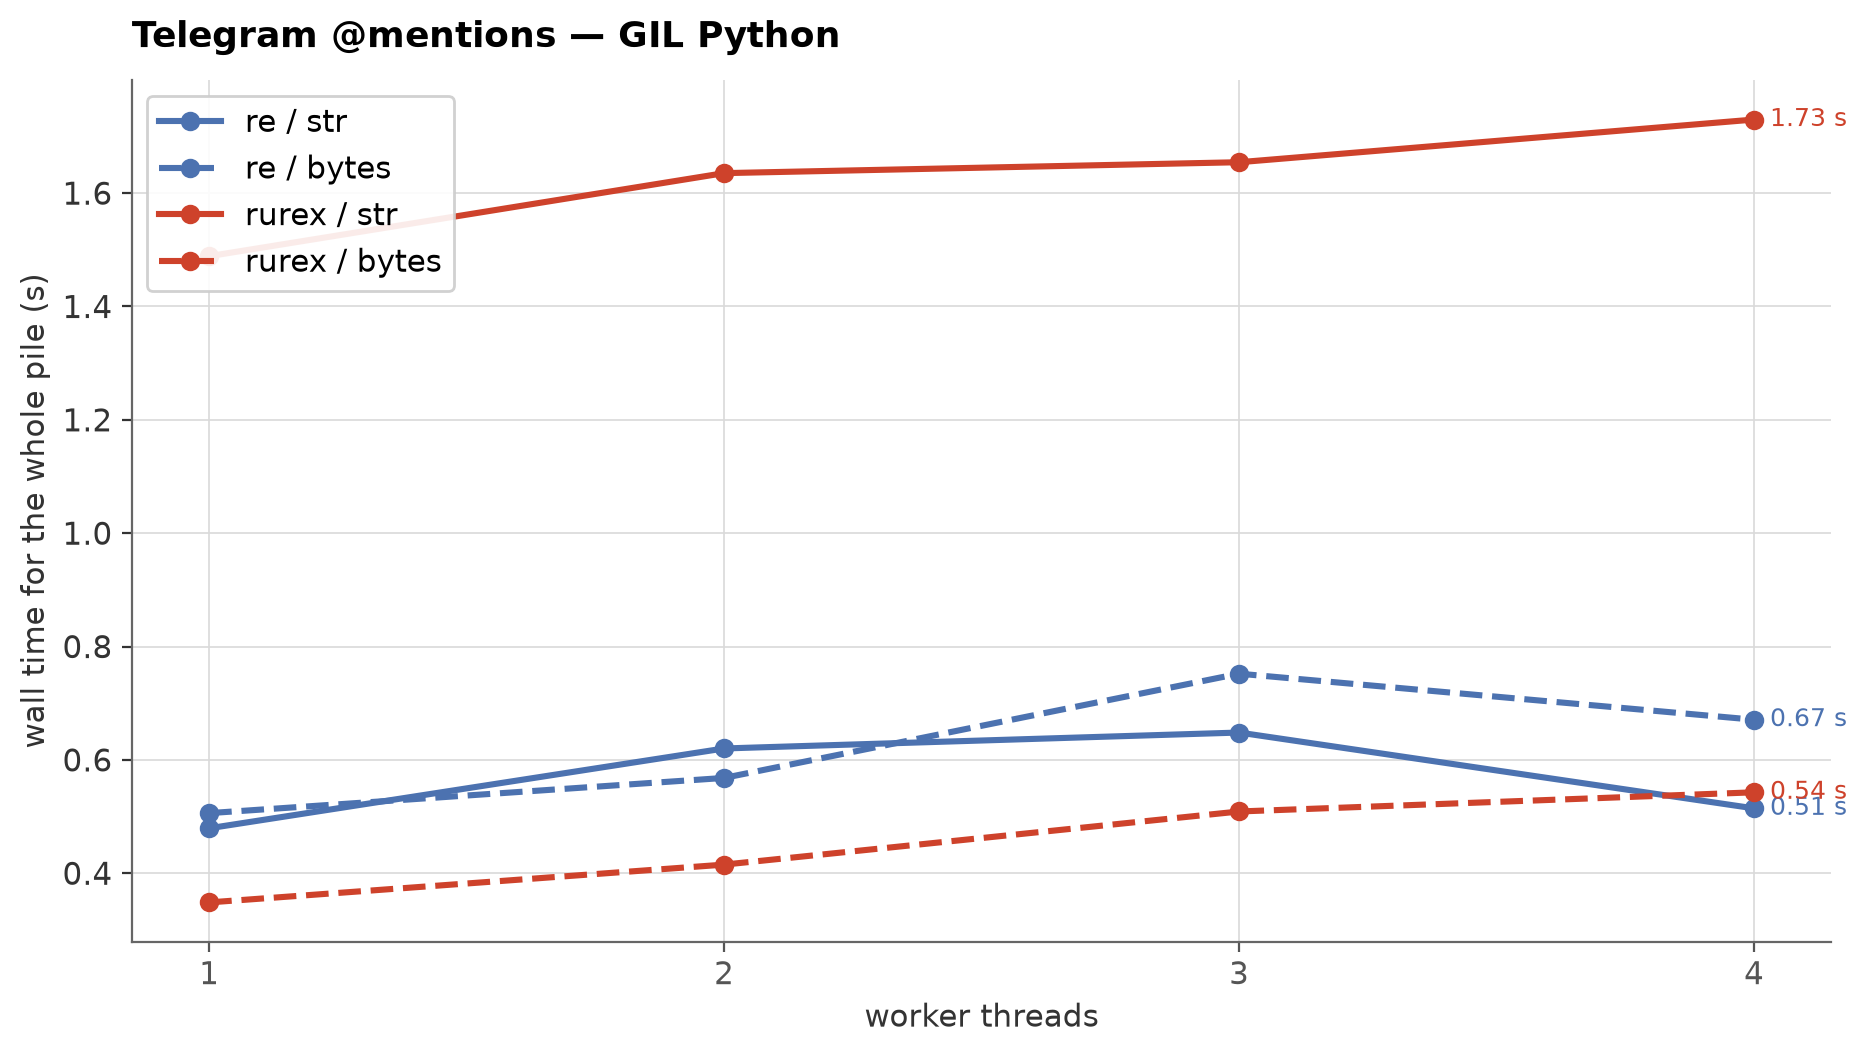
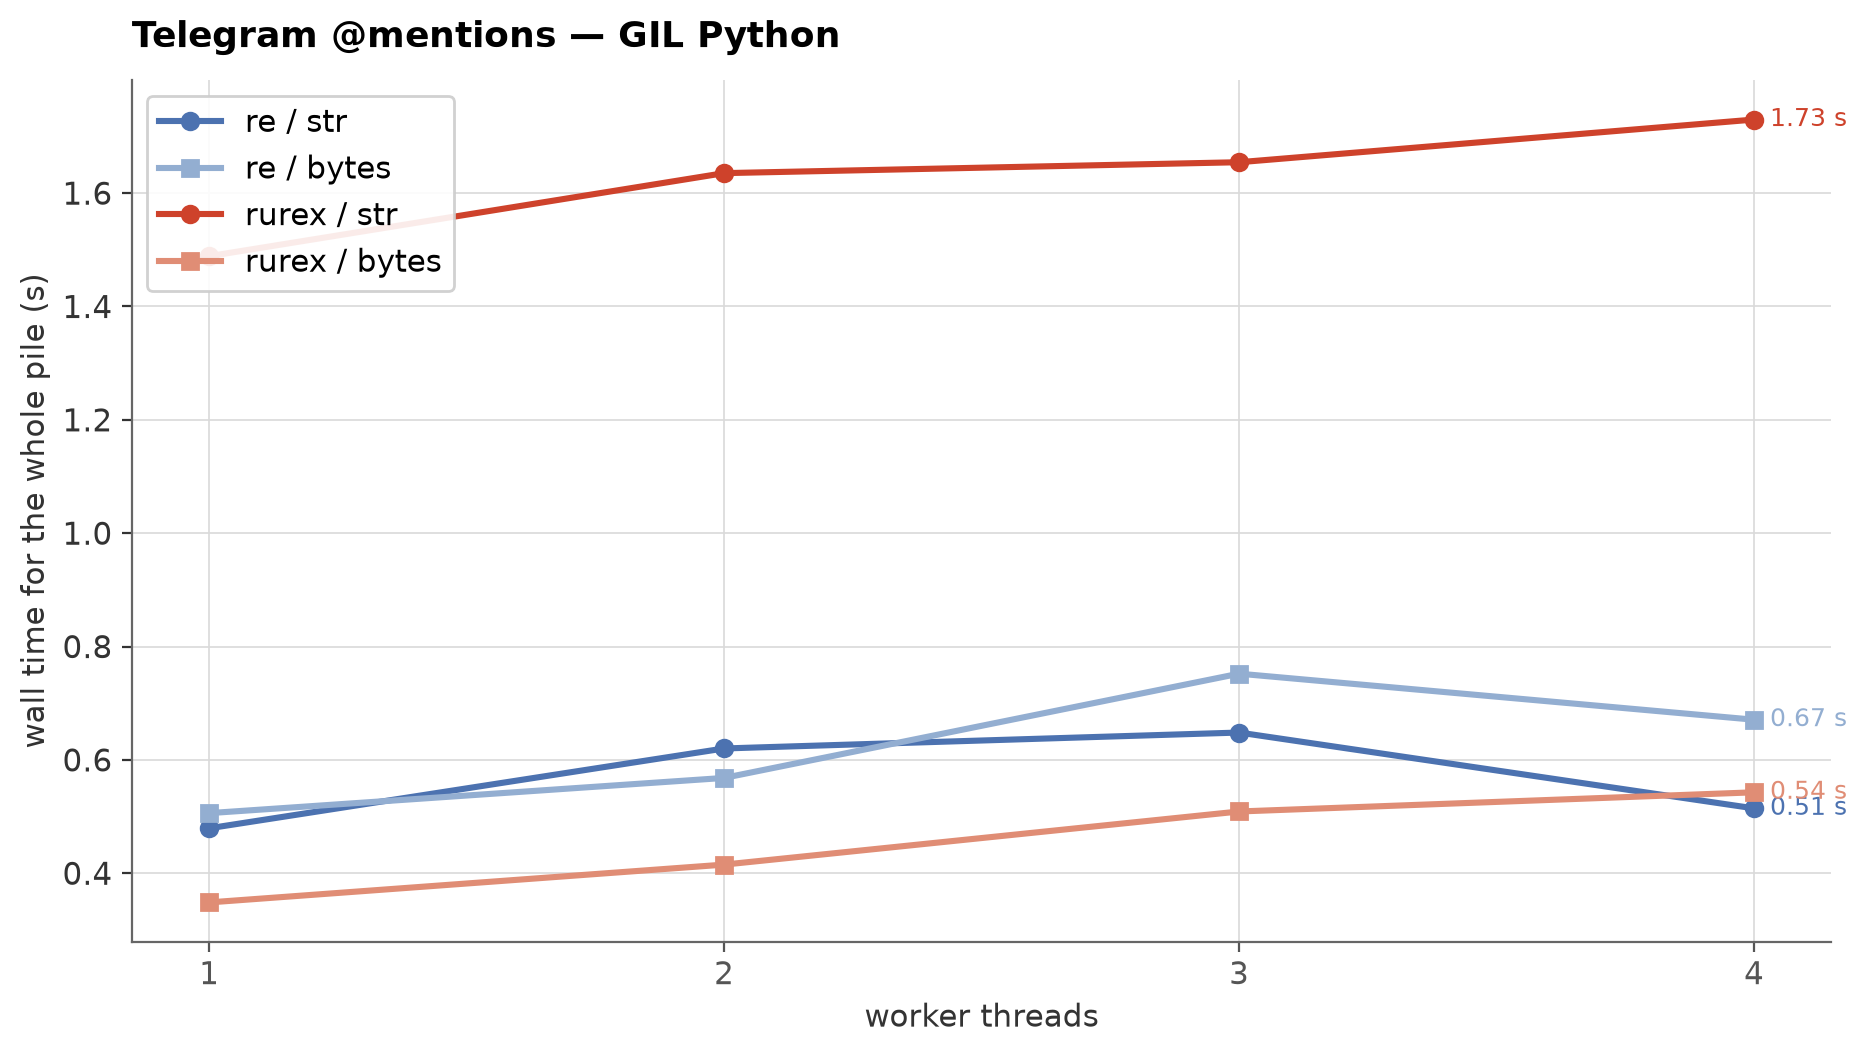
benchmarks(telegram): legend readability - tone per variant, marker per input
All four series now use the same solid line style; each engine keeps
its color with two tones (intense = str, lighter = bytes), and the
input form gets its own marker (circle = str, square = bytes). The
distinction no longer depends on dash visibility in short legend
handles.

diff --git a/benchmarks/telegram_charts.py b/benchmarks/telegram_charts.py
@@ -59,10 +59,10 @@ TITLES = {
 }
 
 SERIES = (
-    ("re", "str", "#4C72B0", "-", "re / str"),
-    ("re", "bytes", "#4C72B0", "--", "re / bytes"),
-    ("rurex", "str", "#CE422B", "-", "rurex / str"),
-    ("rurex", "bytes", "#CE422B", "--", "rurex / bytes"),
+    ("re", "str", "#4C72B0", "o", "re / str"),
+    ("re", "bytes", "#93AED1", "s", "re / bytes"),
+    ("rurex", "str", "#CE422B", "o", "rurex / str"),
+    ("rurex", "bytes", "#E08D75", "s", "rurex / bytes"),
 )
 
 
@@ -70,12 +70,12 @@ def chart(data, interp, out_name):
     pts = [p for p in data["points"] if p["interpreter"] == interp]
     xs = sorted({p["threads"] for p in pts})
     fig, ax = plt.subplots(figsize=(9.5, 5.4))
-    for engine, form, color, ls, label in SERIES:
+    for engine, form, color, marker, label in SERIES:
         ys = [next(p["wall_s"] for p in pts
                    if p["threads"] == x and p["engine"] == engine
                    and p["input"] == form)
               for x in xs]
-        ax.plot(xs, ys, marker="o", linestyle=ls, color=color,
+        ax.plot(xs, ys, marker=marker, linestyle="-", color=color,
                 linewidth=2.2, markersize=6, label=label, zorder=3)
         ax.text(xs[-1], ys[-1], "  " + f"{ys[-1]:.2f} s",
                 color=color, fontsize=9, va="center", ha="left")
